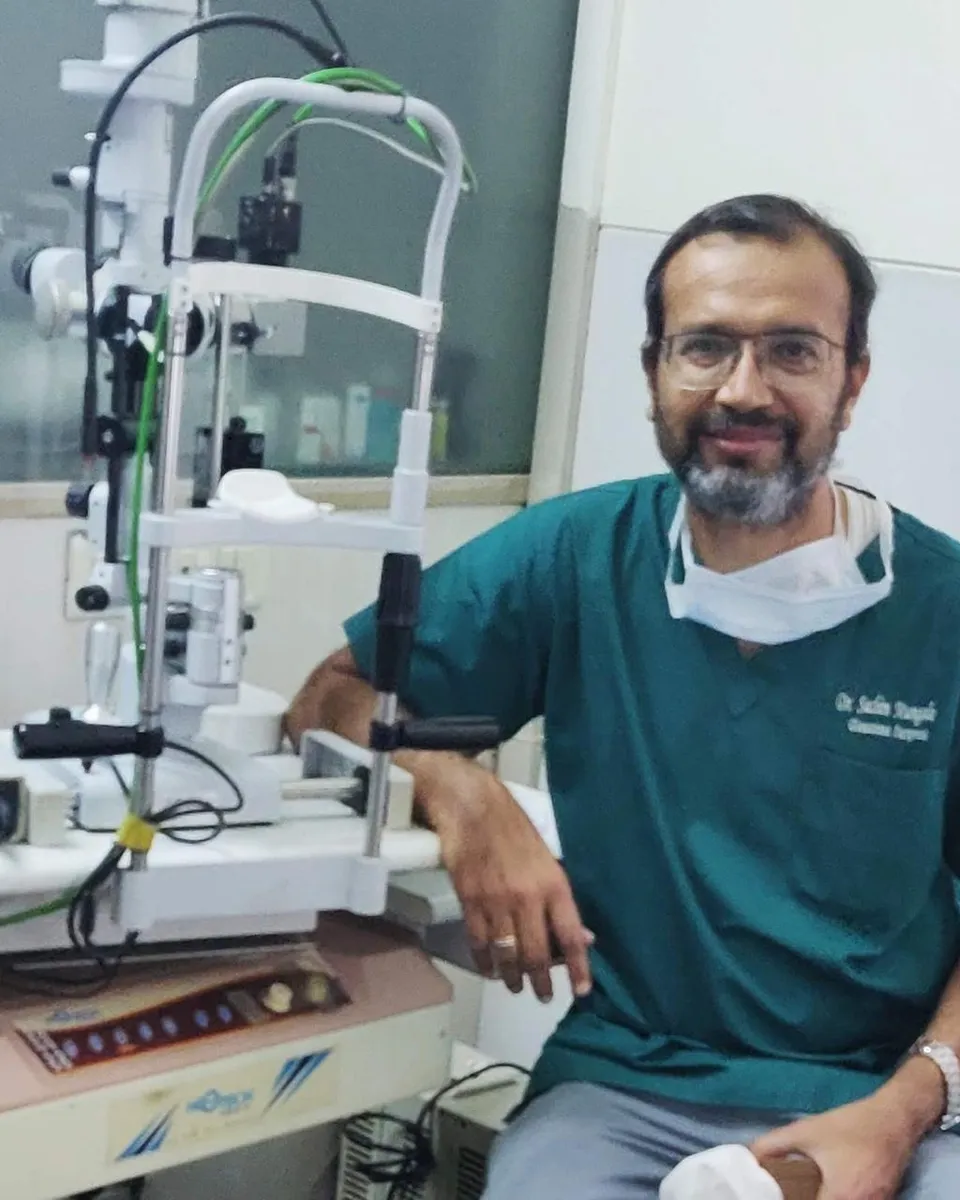
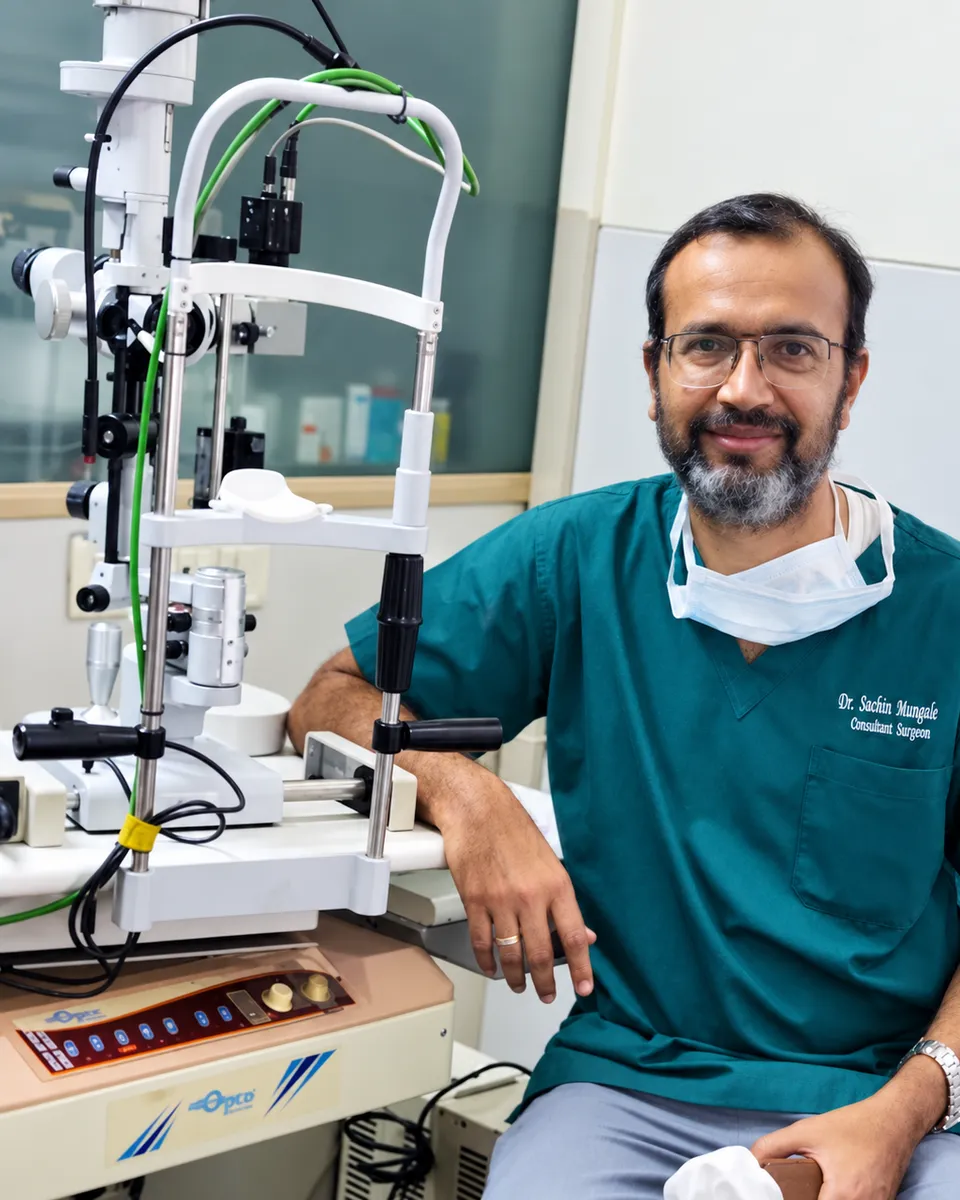
feat(images): owner-supplied entrance and slit-lamp photos
Regenerate why-entrance.webp and why-consultation.webp from the
owner-approved ChatGPT renders (hospital-entrance-v2.png,
dr-sachin-slit-lamp-v2.png in gitignored image-sources/). Crop only,
under 200 KB, same slot ratios. Conference and Pristine sources were
already byte-identical to the new files.

Generated with [Devin](https://devin.ai)

diff --git a/scripts/build-home-images.ts b/scripts/build-home-images.ts
@@ -49,14 +49,17 @@ async function webp(
 async function main() {
   // Column 2 — 4:5 crop keeping face, embroidered name and the slit
   // lamp (lamp column occupies the left ~45%, name is on the chest).
-  // Crop 1024x1280 from the left edge, then downscale to 960x1200.
-  await webp(path.join(SRC, "dr-sachin-slit-lamp.jpg"), path.join(OUT, "why-consultation.webp"), (img) =>
-    img.extract({ left: 0, top: 0, width: 1024, height: 1280 }).resize(960, 1200)
+  // Crop 1025x1281 from the left edge of the 1227x1281 source, then
+  // downscale to 960x1200.
+  await webp(path.join(SRC, "dr-sachin-slit-lamp-v2.png"), path.join(OUT, "why-consultation.webp"), (img) =>
+    img.extract({ left: 0, top: 0, width: 1025, height: 1281 }).resize(960, 1200)
   );
 
-  // Column 1 — entrance photo at native 800x533. Never upscaled; the
-  // page fills the column with object-cover centred on the signboard.
-  await webp(path.join(SRC, "hospital-entrance.webp"), path.join(OUT, "why-entrance.webp"), (img) =>
+  // Column 1 — entrance photo. The v2 source is already 3:2
+  // (1536x1024) with the whole signboard in frame, so a straight
+  // downscale to 800x533 keeps everything. Never upscaled; the page
+  // fills the column with object-cover centred on the signboard.
+  await webp(path.join(SRC, "hospital-entrance-v2.png"), path.join(OUT, "why-entrance.webp"), (img) =>
     img.resize(800, 533, { fit: "fill" })
   );
 
@@ -64,8 +67,8 @@ async function main() {
   // content/gallery.ts + content/doctors.ts. Regenerated only for local
   // preview; never shipped.
   for (const [src, out] of [
-    ["ophthaquest-2024-podium.png", "conference-2024.webp"],
-    ["ophthaquest-2023-award.png", "conference-2023.webp"],
+    ["ophthaquest-2024-panel-v2.png", "conference-2024.webp"],
+    ["ophthaquest-2023-award-v2.png", "conference-2023.webp"],
   ] as const) {
     await webp(path.join(SRC, src), path.join(OUT, out), (img) =>
       img.resize(1536, null, { withoutEnlargement: true })

diff --git a/components/sections/TrustPillars.tsx b/components/sections/TrustPillars.tsx
@@ -130,9 +130,10 @@ const IMG_WRAP =
   "relative flex-1 overflow-hidden rounded-[20px] ring-1 ring-white/10";
 
 // Real photographs only — never an upscaled file. The entrance source is
-// 800x533; at ~360px column width it renders at about 0.45x (under the
-// 1.3x ceiling), so it can cover the full column height safely. The
-// signboard sits in the top ~40% of the photo, hence object-[50%_18%].
+// 1536x1024 (downscaled to 800x533); at ~360px column width it renders
+// at about 0.45x (under the 1.3x ceiling), so it can cover the full
+// column height safely. The signboard sits in the top ~40% of the
+// photo, hence object-[50%_18%].
 // TODO(doctor): need a real photo of the laser machine or operation
 // theatre and its correct name for the third column — see
 // WHY_EQUIPMENT_SRC in lib/images.ts.
